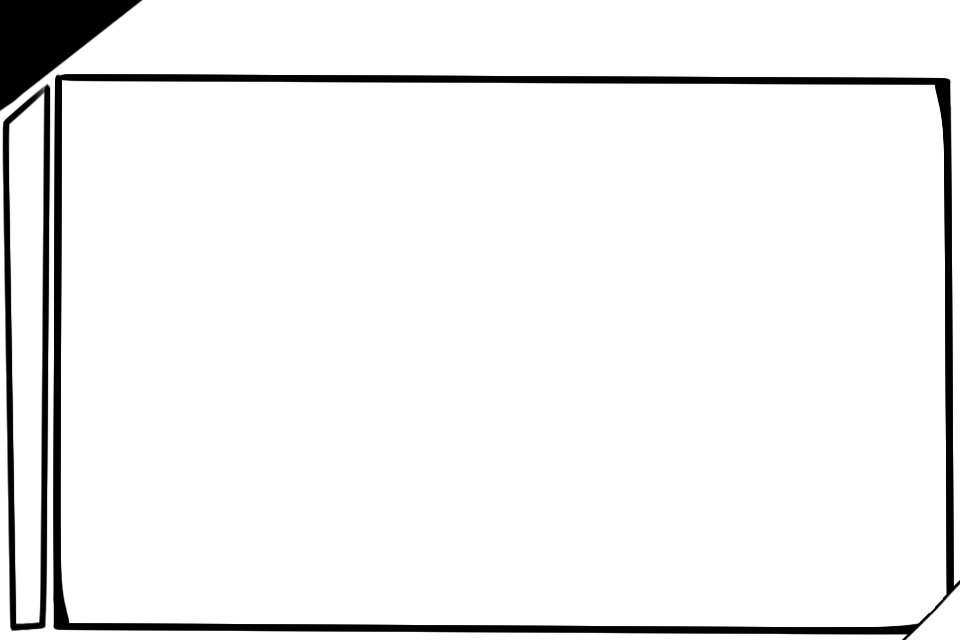
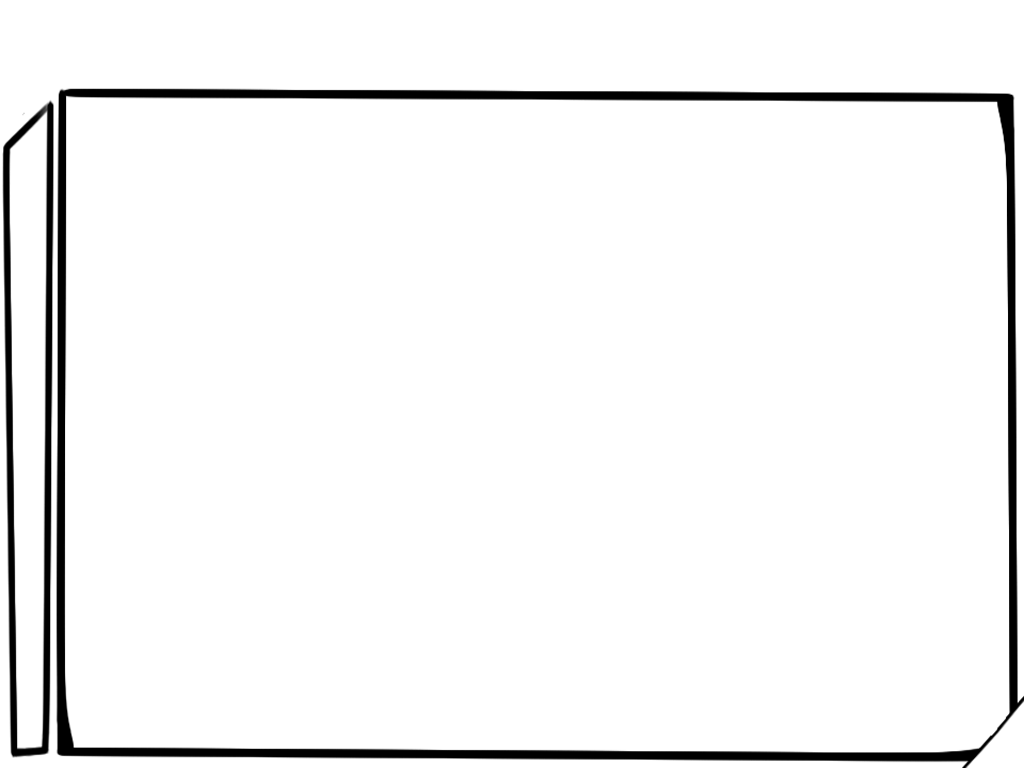
New bg img for ipad, params for score, time, mana bar tweaks

diff --git a/Classes/PizarroGameScene.m b/Classes/PizarroGameScene.m
@@ -248,9 +248,9 @@ static void CollisionBallAndBall (cpArbiter *arb, cpSpace *space, void *data)
 	[self updateLevel];
 	
 	// SCORE
-	CCLabelTTF *scoreL = [CCLabelTTF labelWithString: @"SCORE" dimensions:CGSizeMake(140,40) alignment: UITextAlignmentLeft fontName: kHUDFont fontSize: kHUDFontSize];
+	CCLabelTTF *scoreL = [CCLabelTTF labelWithString: @"SCORE" dimensions: [GParams scoreLabelSize] alignment: UITextAlignmentLeft fontName: kHUDFont fontSize: [GParams HUDFontSize]];
 	scoreL.color = ccc3(0,0,0);
-	scoreL.position =  ccp(145, 302);
+	scoreL.position =  [GParams scoreLabelPoint];
 	[self addChild: scoreL z: 1001];
 	[self updateScore];
 	
@@ -642,9 +642,11 @@ static void CollisionBallAndBall (cpArbiter *arb, cpSpace *space, void *data)
 	[self removeChild: scoreLabel cleanup: YES];
 	
 	NSString *scoreStr = [NSString stringWithFormat: @"%d", score];
-	scoreLabel = [CCLabelTTF labelWithString: scoreStr dimensions:CGSizeMake(160,40) alignment: UITextAlignmentLeft fontName: kHUDFont fontSize: kHUDFontSize];
+	scoreLabel = [CCLabelTTF labelWithString: scoreStr dimensions: [GParams scoreLabelSize] alignment: UITextAlignmentLeft fontName: kHUDFont fontSize: [GParams HUDFontSize]];
 	scoreLabel.color = kBlackColor;
-	scoreLabel.position =  ccp(200 + scoreLabel.contentSize.width/2, 302 );
+	CGPoint p = [GParams scoreLabelPoint];
+	p.x += scoreLabel.contentSize.width/2;
+	scoreLabel.position = p;
 	[self addChild: scoreLabel z: 1001];
 }
 
@@ -657,14 +659,14 @@ static void CollisionBallAndBall (cpArbiter *arb, cpSpace *space, void *data)
 	sec = timeRemaining - (min*60);
 		
 	NSString *timeStr = [NSString stringWithFormat: @"%.2d:%.2d", min, sec];
-	timeLabel = [CCLabelTTF labelWithString: timeStr dimensions:CGSizeMake(110,40) alignment: UITextAlignmentLeft fontName: kHUDFont fontSize: kHUDFontSize];
+	timeLabel = [CCLabelTTF labelWithString: timeStr dimensions: [GParams timeLabelSize] alignment: UITextAlignmentLeft fontName: kHUDFont fontSize: [GParams HUDFontSize]];
 	
 	if (timeRemaining > kTimeLow)
 		timeLabel.color = kBlackColor; // black
 	else
 		timeLabel.color = ccc3(180,0,0); // red
 	
-	timeLabel.position =  ccp(417, 301);
+	timeLabel.position =  [GParams timeLabelPoint];
 	[self addChild: timeLabel z: 1001];
 	
 	if (timeRemaining <= kTimeLow && SOUND_ENABLED)
@@ -971,7 +973,7 @@ static void CollisionBallAndBall (cpArbiter *arb, cpSpace *space, void *data)
 							nil]];
 	
 	NSString *scoreStr = [NSString stringWithFormat: @"SCORE: %d", score];
-	CCLabelTTF *finalScoreLabel = [CCLabelTTF labelWithString: scoreStr fontName: kHUDFont fontSize: kHUDFontSize];
+	CCLabelTTF *finalScoreLabel = [CCLabelTTF labelWithString: scoreStr fontName: kHUDFont fontSize: [GParams HUDFontSize]];
 	finalScoreLabel.opacity = 0.0f;
 	CGPoint p = kGameScreenCenterPoint;
 	p.y -= 10;

diff --git a/Classes/GParams.m b/Classes/GParams.m
@@ -21,6 +21,60 @@
 	return [NSString stringWithFormat: @"%@.png", spriteFileName];
 }
 
+#pragma mark -
+#pragma mark In-Game
+
++(float)HUDFontSize
+{
+	if (IPAD)
+		return kHUDFontSize * 2;
+	
+	return kHUDFontSize;
+}
+
++(CGSize)scoreLabelSize
+{
+	if (IPAD)
+		CGSizeMake(320,80);
+	
+	return CGSizeMake(160,40);
+}
+
++(CGPoint)scoreLabelPoint
+{
+	if (IPAD)
+		return ccp(400, 725);
+	
+	return ccp(200, 302);
+}
+
++(CGPoint)timeLabelPoint
+{
+	if (IPAD)
+		return ccp(910, 725);
+	
+	return ccp(417, 301);
+}
+
++(CGSize)timeLabelSize
+{
+	if (IPAD)
+		return CGSizeMake(220,80);
+	
+	return CGSizeMake(110,40);
+}
+
++(float)manaBarHeight
+{
+	if (IPAD)
+		return 640;
+	
+	return 268;
+}
+
+#pragma mark -
+#pragma mark Main Menu Scene
+
 +(float)mainMenuFontSize
 {
 	if (IPAD)

diff --git a/Classes/GParams.h b/Classes/GParams.h
@@ -15,6 +15,21 @@
 }
 +(NSString *)spriteFileName: (NSString *)spriteFileName;
 
++(float)HUDFontSize;
++(CGSize)scoreLabelSize;
++(CGPoint)scoreLabelPoint;
++(CGPoint)timeLabelPoint;
++(CGSize)timeLabelSize;
++(float)manaBarHeight;
+
+
+
+
+
+
+
+
+
 +(float)mainMenuFontSize;
 +(CGPoint)mainMenuPoint;
 +(CGPoint)mainMenuStartingPoint;

diff --git a/Classes/ManaBar.m b/Classes/ManaBar.m
@@ -48,7 +48,7 @@
 		return;
 	
 	percentage = p;
-	float height = roundf((self.percentage * 268));
+	float height = roundf((self.percentage * [GParams manaBarHeight]));
 	
 	CCSprite *barSprite, *barTopSprite;
 	
